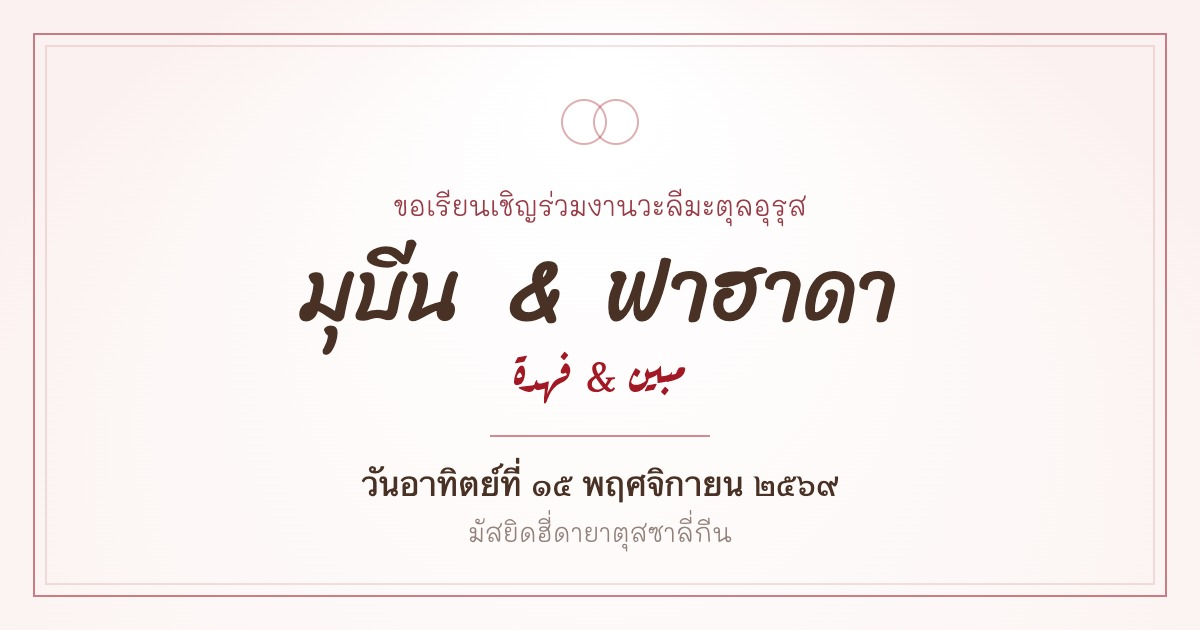
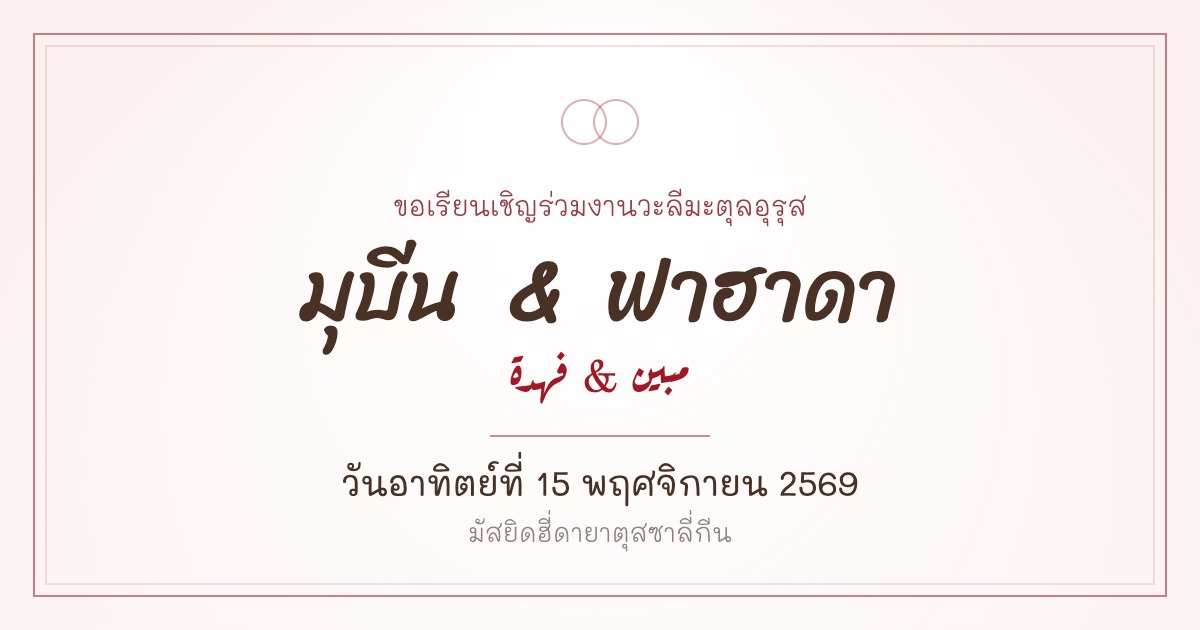
Write the year in Arabic numerals
The date block read "15 พฤศจิกายน ๒๕๖๙" — the day in one set of numerals,
the year in another. The year joins the day: 2569.

The share image was converting the day to Thai digits so it would match
the year; with the year now Arabic that conversion produced the same
split it was meant to avoid, so it goes and og.jpg is regenerated.

The verse reference (อัร-รูม ๓๐ : ๒๑) keeps Thai numerals — it was not
part of what was marked, and Thai digits are conventional for a citation.

Changed region(s): [[0.2775, 0.7238, 0.74, 0.8143], [0.4008, 0.573, 0.5858, 0.6333]]

diff --git a/tools/og-maker.html b/tools/og-maker.html
@@ -100,13 +100,10 @@
     ctx.moveTo(W / 2 - 110, 436); ctx.lineTo(W / 2 + 110, 436);
     ctx.stroke();
 
-    // วันที่ — แปลงเลขอารบิกเป็นเลขไทย ให้เข้าชุดกับปีที่เขียนเป็นเลขไทยใน config
+    // วันที่ — ใช้เลขสากลตามที่ตั้งไว้ใน config ไม่แปลงเป็นเลขไทย
     var date = cfg.date || {};
-    var thaiDigits = function (text) {
-      return String(text).replace(/[0-9]/g, function (d) { return '๐๑๒๓๔๕๖๗๘๙'[+d]; });
-    };
     var line = [
-      date.weekdayTh ? date.weekdayTh + (date.day ? 'ที่ ' + thaiDigits(date.day) : '') : thaiDigits(date.day || ''),
+      date.weekdayTh ? date.weekdayTh + (date.day ? 'ที่ ' + date.day : '') : (date.day || ''),
       date.monthYearTh || '',
     ].filter(Boolean).join(' ');
     ctx.fillStyle = '#4a3126';

diff --git a/assets/js/config.js b/assets/js/config.js
@@ -29,7 +29,7 @@ window.WEDDING_CONFIG = {
   date: {
     weekdayTh: 'วันอาทิตย์',
     day: '15',
-    monthYearTh: 'พฤศจิกายน ๒๕๖๙',
+    monthYearTh: 'พฤศจิกายน 2569',
     hijri: '٥ جمادى الآخرة ١٤٤٨',
   },
 
